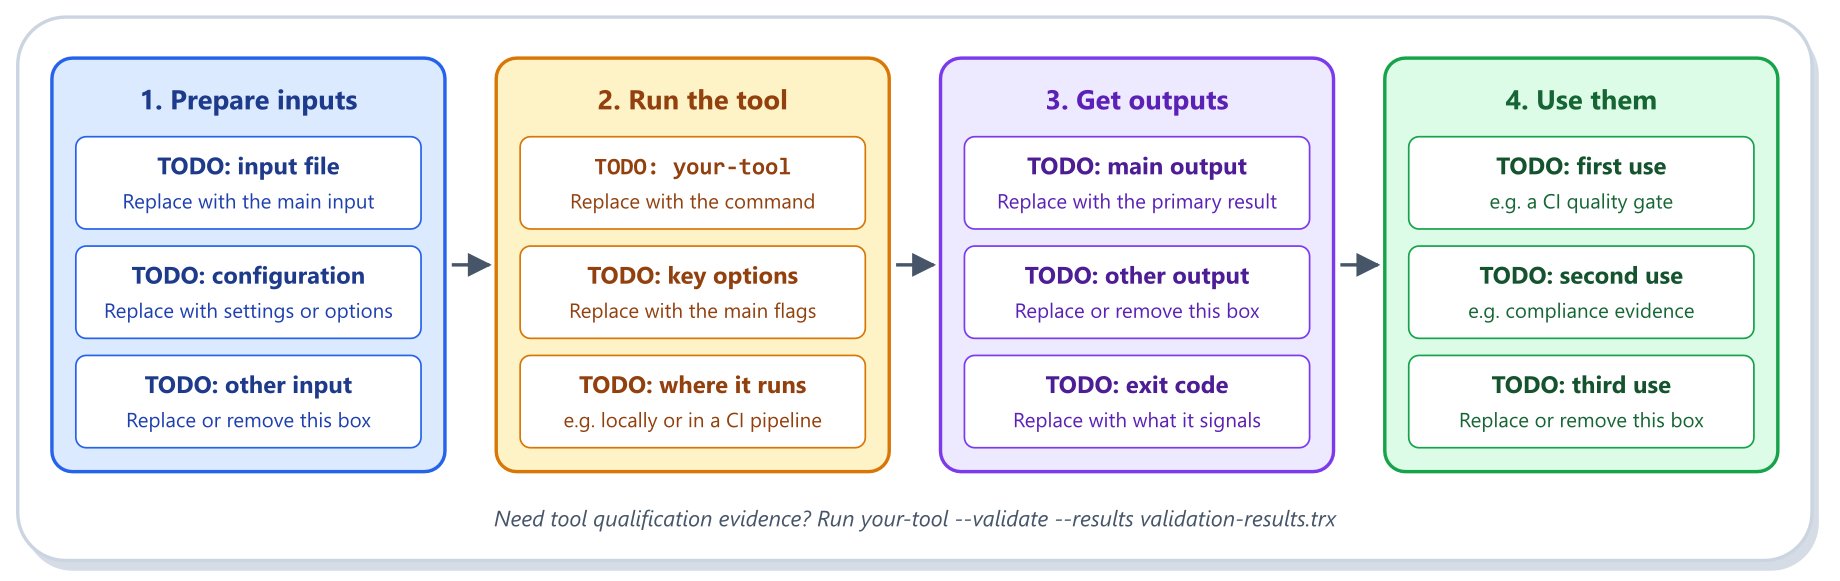
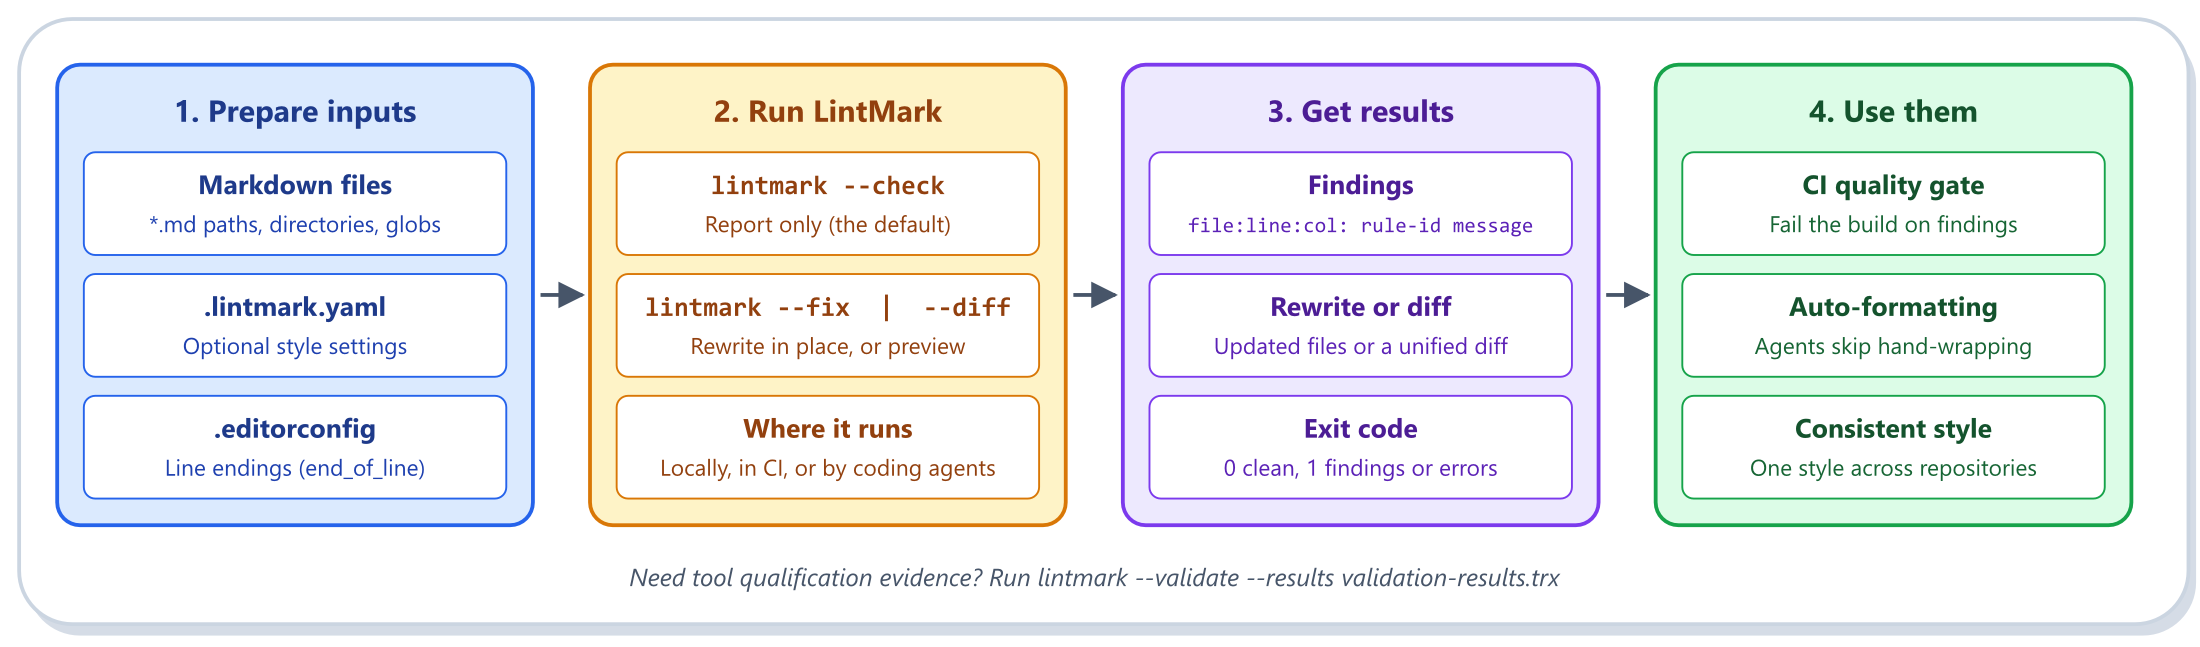
docs: replace placeholder diagrams with real LintMark diagrams (#28)
* docs: replace placeholder diagrams with real LintMark workflow and data-flow diagrams

* docs: show formatting and linting both read the parsed document

---------

diff --git a/docs/design/introduction.md b/docs/design/introduction.md
@@ -59,6 +59,25 @@ nested subsystems.
 
 ![Software Structure](SoftwareStructureView.svg)
 
+## Runtime Data Flow
+
+The structure view above shows what the system is made of, not how a run moves data between those parts. The diagram
+below follows one `lintmark` run: `Program` and `Context` hand the command line to the `Engine`, which discovers the
+files and, for each file in parallel, resolves the configuration and parses the document. The formatter and the
+lint-only rules then both read that parsed document as written, so what the lint-only rules report does not depend on
+what the formatter changes; their findings are combined. Only with `--fix` is the rewritten text parsed again and
+checked again, so that the remaining findings are reported at the positions of the new file. The `Engine` then reports
+the findings and, with `--fix`, writes the result. Look for the OTS libraries that each unit consumes and for the
+inputs and outputs at the edges. The `Validation` unit (`--validate`) is a separate path and is not shown. The SysML2
+model remains the authority on structure; this diagram only adds the data flow.
+
+![Runtime data flow of a lintmark run: the command line, Markdown files, .lintmark.yaml, and .editorconfig enter
+Program, Context, and the Engine. FileDiscovery expands the paths, then each file passes through Configuration and
+Document, and Formatting and Linting both read the parsed document. The Reporters write findings to stderr and a unified
+diff to stdout,
+AtomicFileWriter rewrites files for --fix, and Context sets the exit code. Markdig, YamlDotNet, EditorConfig, and
+FileSystemGlobbing are the OTS libraries used.](architecture.svg)
+
 ## Folder Layout
 
 - **src/** - source files and projects

diff --git a/README.md b/README.md
@@ -12,12 +12,15 @@
 LintMark is a .NET tool, distributed as a NuGet tool package, for linting and optionally reformatting markdown files
 into a preferred format, with optional tweaks via a .lintmark.yaml configuration file.
 
-The diagram below is a placeholder workflow diagram: replace its TODO boxes (in `docs/images/workflow.svg`,
-then re-render `docs/images/workflow.png`) to show how users prepare inputs, run your tool, get its outputs,
-and use them.
+The diagram below shows the workflow: you give LintMark Markdown files and optional settings, run it in one of three
+modes, and use its findings, rewrites, and exit code.
 
-![Placeholder workflow diagram: replace the TODO boxes to show how users prepare inputs, run your tool, get
-its outputs, and use them][workflow]
+![LintMark workflow in four steps. Prepare inputs: Markdown files, an optional .lintmark.yaml, and an .editorconfig for
+line endings. Run LintMark with --check to report, or --fix or --diff to rewrite or preview, locally, in CI, or from
+coding agents. Get results: findings as file:line:col: rule-id message, rewritten files or a unified diff, and an exit
+code of 0 when clean or 1 for findings or errors. Use them as a CI quality gate, for auto-formatting, and for a
+consistent style. Tool qualification evidence comes from lintmark --validate --results
+validation-results.trx.][workflow]
 
 ## Features
 

diff --git a/docs/user_guide/introduction.md b/docs/user_guide/introduction.md
@@ -1,10 +1,14 @@
 # Introduction
 
-The workflow below is a placeholder: replace its TODO boxes to show how users prepare inputs, run your
-tool locally or in a CI pipeline, get its outputs, and use them.
+The workflow below shows how you prepare inputs, run LintMark locally, in CI, or from a coding agent, read its
+results, and use them.
 
-![Placeholder workflow diagram: replace the TODO boxes to show how users prepare inputs, run your tool, get
-its outputs, and use them](workflow.svg)
+![LintMark workflow in four steps. Prepare inputs: Markdown files, an optional .lintmark.yaml, and an .editorconfig for
+line endings. Run LintMark with --check to report, or --fix or --diff to rewrite or preview, locally, in CI, or from
+coding agents. Get results: findings as file:line:col: rule-id message, rewritten files or a unified diff, and an exit
+code of 0 when clean or 1 for findings or errors. Use them as a CI quality gate, for auto-formatting, and for a
+consistent style. Tool qualification evidence comes from lintmark --validate --results
+validation-results.trx.](workflow.svg)
 
 ## Purpose
 
